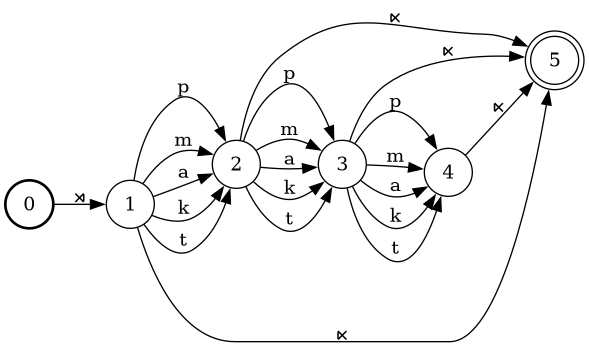
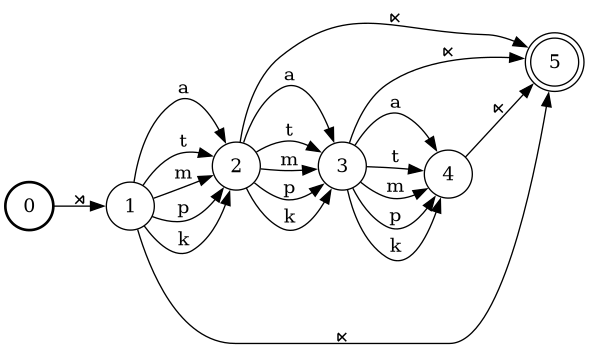
demo fix

diff --git a/demo/string_sample.py b/demo/string_sample.py
@@ -1,6 +1,6 @@
 import sys
 
-sys.path.append('..')
+# sys.path.append('..')
 from pynini import Weight
 from wyfst import config
 from wyfst.wywrapfst import *
@@ -11,6 +11,7 @@ config.init()
 # preceding context, placing arc weights in the neg log prob
 # semiring (called "log" by pynini/OpenFst)
 M = ngram(context='left', length=1, arc_type='log')
+# M.draw('fig/M.dot')
 
 # Assign arc weights with an arbitrary function; for example,
 # disprefer sequences of identicals (aa and bb)
@@ -23,10 +24,12 @@ def wfunc(wfst, src, arc):
 
 
 M.assign_weights(wfunc)
+# M.draw('fig/M.dot')
 
 #  Machine that represents all strings of length n
 n = 4
-A = braid(n, arc_type='log')
+A = braid(n, arc_type='log', add_delim=True)
+# A.draw('fig/A.dot')
 
 #  Compose A o M, normalize, and sample strings of length n
 S = compose(A, M)

diff --git a/demo/determinize.py b/demo/determinize.py
@@ -1,7 +1,7 @@
 # Determinize acceptors and transducers.
 import sys
 
-sys.path.append('..')
+# sys.path.append('..')
 import wyfst
 from wyfst import Wfst
 from wyfst import config as wyconfig

diff --git a/demo/encode_labels.py b/demo/encode_labels.py
@@ -1,7 +1,7 @@
 # Encode / decode arc labels.
 import sys
 
-sys.path.append('..')
+# sys.path.append('..')
 import wyfst
 from wyfst import config as wyconfig
 

diff --git a/demo/path_ops.py b/demo/path_ops.py
@@ -1,7 +1,7 @@
 # Determinize acceptors and transducers.
 import sys
 
-#sys.path.append('..')
+# sys.path.append('..')
 import wyfst
 from wyfst import Wfst
 from wyfst import config as wyconfig

diff --git a/demo/simple_fst_ops.py b/demo/simple_fst_ops.py
@@ -1,6 +1,6 @@
 import sys
 
-sys.path.append('..')
+# sys.path.append('..')
 from wyfst.simple_fst import *
 
 fst = SimpleFst()

diff --git a/demo/stochastic.py b/demo/stochastic.py
@@ -5,7 +5,7 @@ import sys
 import numpy as np
 from pynini import Weight
 
-sys.path.append('..')
+# sys.path.append('..')
 from wyfst import config as wyconfig
 from wyfst.wywrapfst import *
 

diff --git a/demo/string_map.py b/demo/string_map.py
@@ -1,6 +1,6 @@
 import sys
 
-sys.path.append('..')
+# sys.path.append('..')
 from pynini import Weight
 from wyfst import config
 from wyfst.wywrapfst import *

diff --git a/demo/wfst_ops.py b/demo/wfst_ops.py
@@ -1,6 +1,6 @@
 import sys
 
-sys.path.append('..')
+# sys.path.append('..')
 from pynini import Arc, Weight
 from wyfst import config as wyconfig
 from wyfst.wywrapfst import *

diff --git a/demo/wfst_ops_more.py b/demo/wfst_ops_more.py
@@ -1,6 +1,6 @@
 import sys
 
-sys.path.append('..')
+# sys.path.append('..')
 from pynini import Arc, Weight
 from wyfst import config as wyconfig
 from wyfst.wywrapfst import *

diff --git a/demo/loglinear_ops.py b/demo/loglinear_ops.py
@@ -2,6 +2,7 @@
 import sys
 import numpy as np
 
+# sys.path.append('..')
 import wyfst
 from wyfst import (config, acceps, trellis)
 from wyfst import loglinear